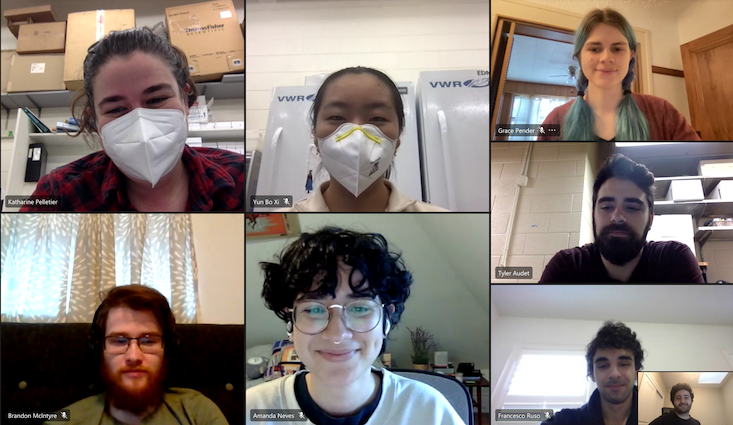
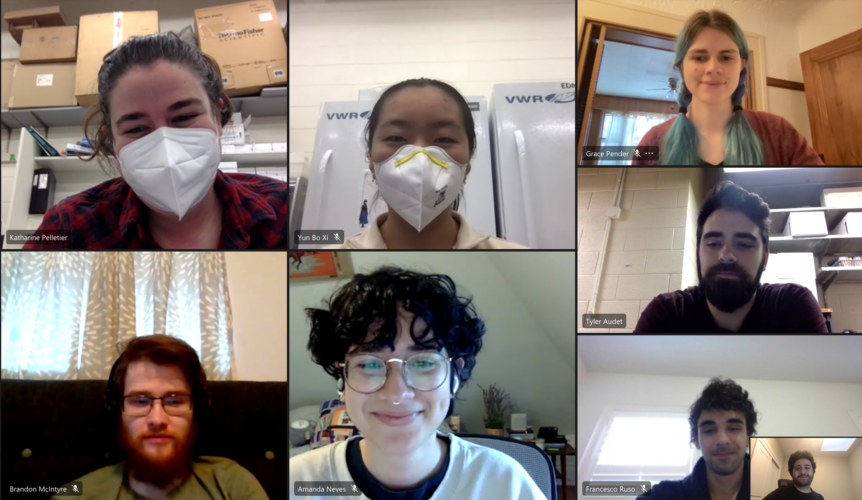
one last resize try in imageJ

diff --git a/css/normalize.css b/css/normalize.css
@@ -143,7 +143,7 @@ h1 {
 
 mark {
   background: #ff0;
-  color: #00066;
+  color: #000;
 }
 
 /**

diff --git a/people.md b/people.md
@@ -6,7 +6,7 @@ bigimg:
 - "/img/coverphotos/Lab2017_V2.jpg" : "Lab (circa 2017)"
 - "/img/coverphotos/LabShot2019.jpg" : "Lab (circa 2019)"
 - "/img/coverphotos/IMG_0051.JPG" : "Lab (circa 2014)"
-- "/img/coverphotos/Lab2021.jpg" : "Lab (circa 2022.. pandemic times)"
+- "/img/coverphotos/Lab2021.png" : "Lab (circa 2022.. pandemic times)"
 - "/img/fun/DSC_0140.jpg" : "Lab (circa 2007)"
 - "/img/fun/IMG_0502.JPG" : "Lab (circa 2010)"
 - "/img/fun/Photo1.jpg" : "Lab (circa 2011)"
